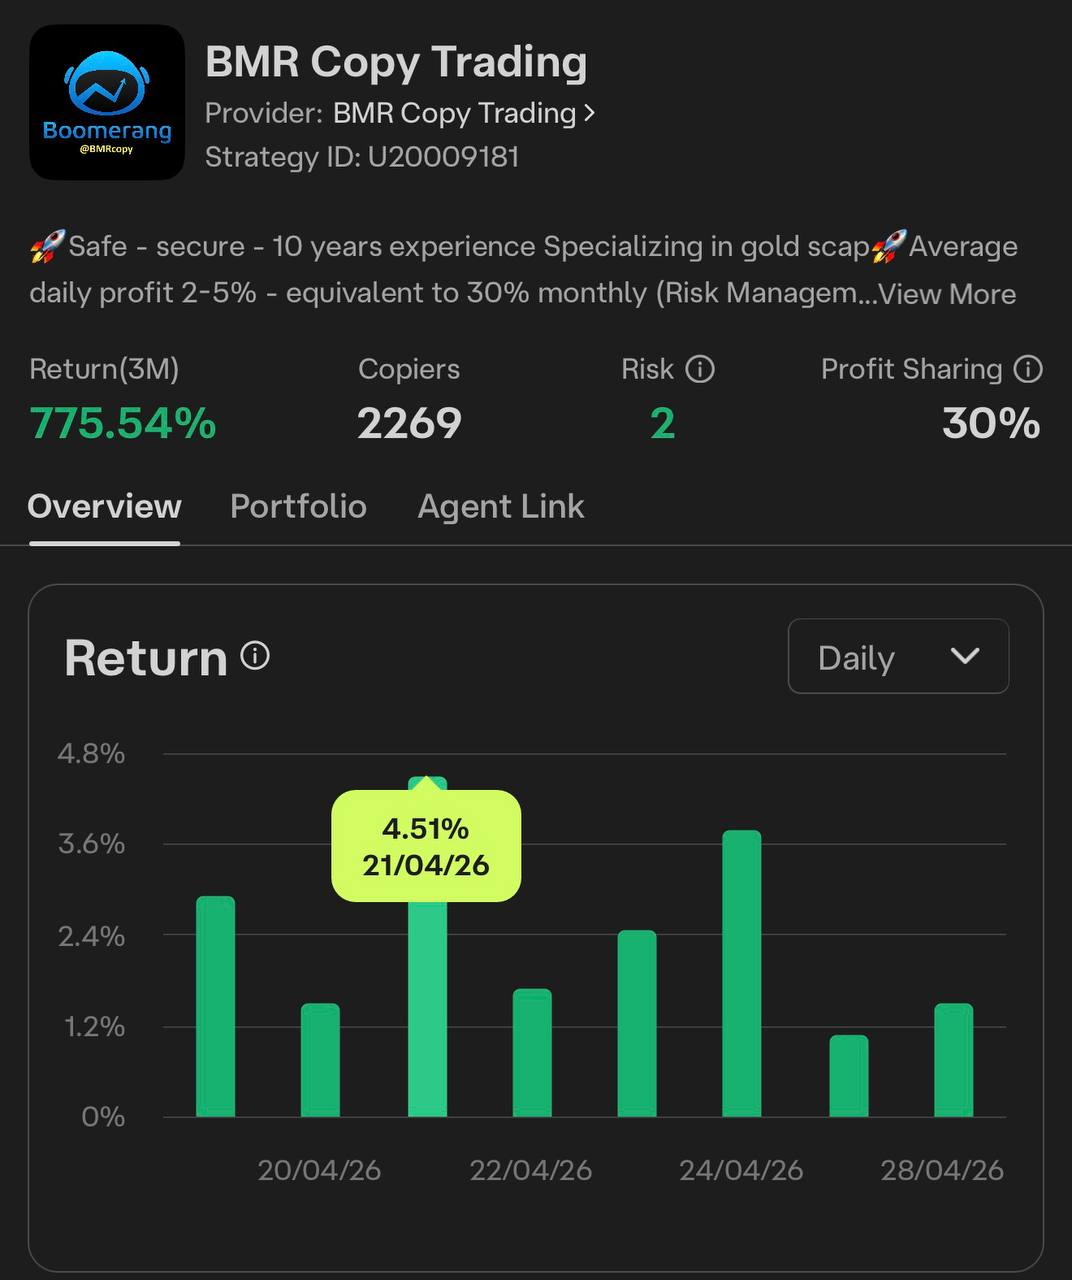
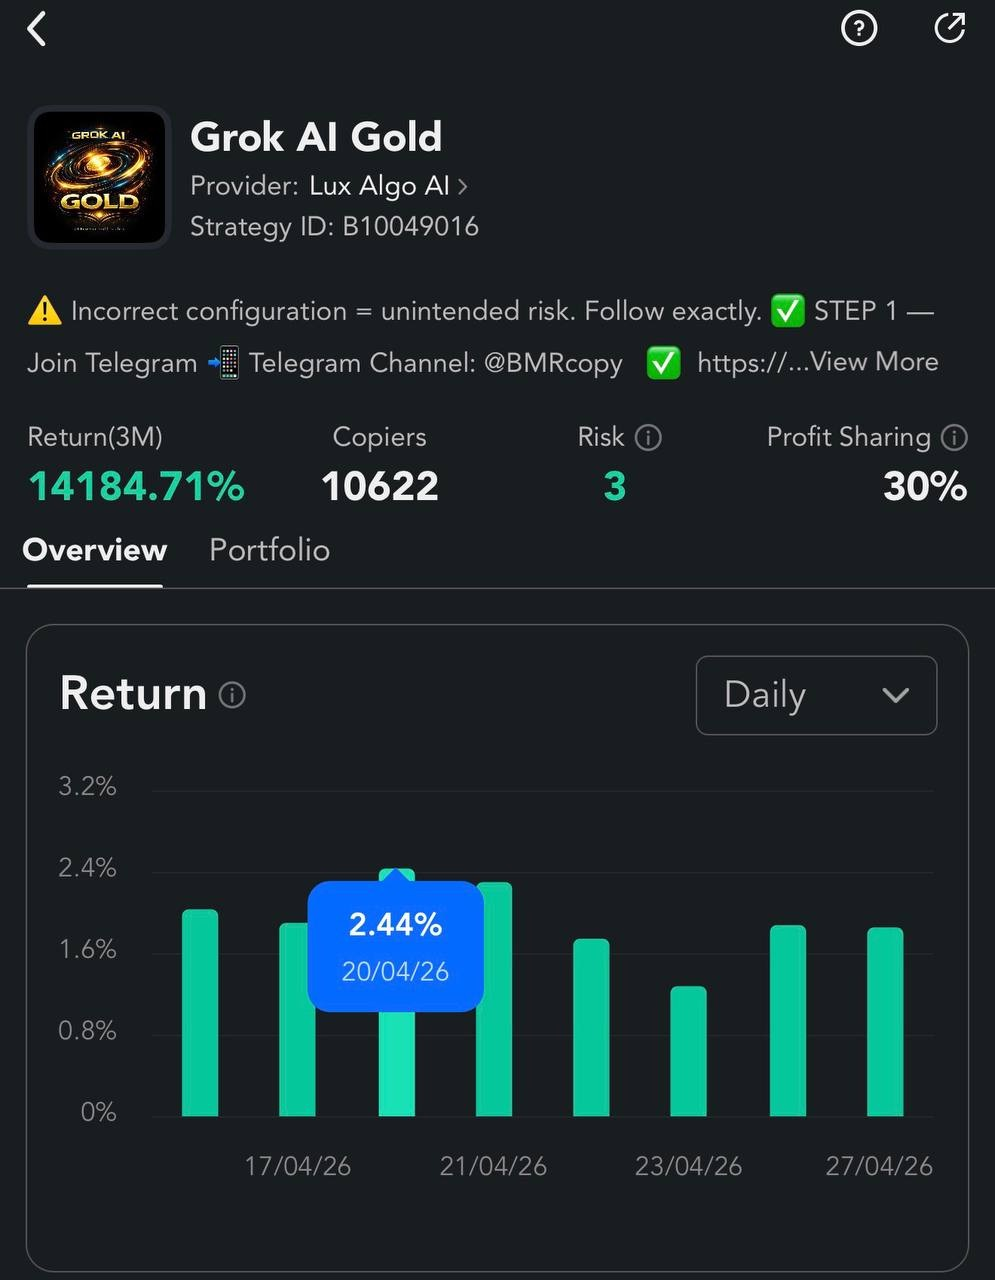
feat: refresh VN bot copy and product images
Welcome:
- Replace generic subtitle with positioning lines (AI Gold & BTC Copy Trading / Risk Management System / Dành cho nhà đầu tư bận rộn)

Product pages (text):
- Grok AI Gold: Top 3 -> Top 2 Most Copied; bullets -> Gold Scalping System / AI Risk Management / Real-Time Copy Trading
- BMR Copy Trading: 'Top Annual Return tren Ultima Markets'; bullets -> AI Risk Management / Giao dich tu dong / Portfolio Growth
- BMR Scalper Gold: 'High Performance Copy Trading tren Vantage'; bullets -> Gold Scalping System / AI Trade Execution / Social Copy Trading
- Numbers unchanged

VIP Package:
- Replace broker registration block with Mở khóa list (AI Gold Signals / Market Analysis / Trading Education / Community Access / Priority Support) + Điều kiện tham gia: Tài khoản từ $1,000+

Admin contact:
- Replace @user with @user across scenes and follow-up

Product images:
- Replace public/grok/{1,2,3}.jpg with latest broker portal screenshots (old archived to ../vortexbotvn-archived-20260507/public/grok-old-20260508/)

diff --git a/src/scenes/onboarding/onboarding.scene.ts b/src/scenes/onboarding/onboarding.scene.ts
@@ -37,7 +37,9 @@ export class OnboardingScene {
     ctx.session.currentStep = 'onboarding:welcome';
     const welcomeText =
       '🔥 Chào mừng đến BMR Copy Trading\n\n' +
-      'Hệ thống giao dịch chuyên nghiệp 👇';
+      '📈 AI Gold & BTC Copy Trading\n' +
+      '⚖️ Risk Management System\n' +
+      '👥 Dành cho nhà đầu tư bận rộn';
     await ctx.reply(welcomeText, welcomeKeyboard());
   }
 
@@ -50,16 +52,17 @@ export class OnboardingScene {
     ctx.session.currentStep = 'onboarding:grok_ai_gold';
 
     const text = `🤖 Grok AI Gold
-Top 3 Most Copied trên PU Prime
+
+Top 2 Most Copied trên PU Prime
 
 📊 Lợi nhuận YTD: +107,615%
-📊 Lợi nhuận 3 tháng: +14,184%
+📈 Lợi nhuận 3 tháng: +14,184%
 👥 Tổng người copy: 10,622
 ⚖️ Mức rủi ro: 3
 
-✅ Gold Scalping
-✅ Tự động hoàn toàn
-✅ Copy Trading thời gian thực`;
+✅ Gold Scalping System
+✅ AI Risk Management
+✅ Real-Time Copy Trading`;
     await this.sendPhotoWithCaption(ctx, IMAGES.grok.product1, text, grokAiGoldKeyboard());
   }
 
@@ -72,7 +75,8 @@ Top 3 Most Copied trên PU Prime
     ctx.session.currentStep = 'onboarding:bmr_copy_trading';
 
     const text = `🏆 BMR Copy Trading
-Top 1 Lợi nhuận thường niên cao nhất Ultima Markets
+
+Top Annual Return trên Ultima Markets
 
 📊 Lợi nhuận 1 năm: +1,596%
 👥 Tổng người copy: 2,269
@@ -80,9 +84,9 @@ Top 1 Lợi nhuận thường niên cao nhất Ultima Markets
 ⚖️ Mức rủi ro: 2
 💰 Vốn đề xuất: $1,000+
 
-✅ Đa chiến lược
+✅ AI Risk Management
 ✅ Giao dịch tự động
-✅ Tăng trưởng dài hạn`;
+✅ Portfolio Growth`;
     await this.sendPhotoWithCaption(ctx, IMAGES.grok.product2, text, bmrCopyTradingKeyboard());
   }
 
@@ -95,14 +99,15 @@ Top 1 Lợi nhuận thường niên cao nhất Ultima Markets
     ctx.session.currentStep = 'onboarding:bmr_scalper_gold';
 
     const text = `🚀 BMR Scalper Gold
-Hiệu suất Copy Trading mạnh trên Vantage
+
+High Performance Copy Trading trên Vantage
 
 📊 Lợi nhuận 3 tháng: +6,288.96%
 👥 Tổng người copy: 1,401
 📌 Người copy hiện tại: 95
 
-✅ Gold Scalping
-✅ Tần suất cao
+✅ Gold Scalping System
+✅ AI Trade Execution
 ✅ Social Copy Trading`;
     await this.sendPhotoWithCaption(ctx, IMAGES.grok.product3, text, bmrScalperGoldKeyboard());
   }
@@ -116,21 +121,15 @@ Hiệu suất Copy Trading mạnh trên Vantage
 
     const text = `👑 BMR VIP Package
 
-Tham gia VIP:
+Mở khóa:
+✅ AI Gold Signals
+✅ Market Analysis
+✅ Trading Education
+✅ Community Access
+✅ Priority Support
 
-Đăng ký:
-PU Prime
-Ultima Markets
-Vantage
-
-Nạp tối thiểu: $1,000
-
-Mở khoá:
-✅ Tín hiệu hàng ngày
-✅ Forex Course
-✅ SMC Course
-✅ Cộng đồng
-✅ Hỗ trợ Copy Trading`;
+📌 Điều kiện tham gia:
+Tài khoản từ $1,000+`;
     await this.sendPhotoWithCaption(ctx, IMAGES.grok.vip, text, vipPackageKeyboard());
   }
 
@@ -172,14 +171,14 @@ Mở khoá:
   async onSupport(ctx: BotContext) {
     await ctx.answerCbQuery();
     await this.adminService.notifyAdmin(ctx.from!.id, ctx.from?.username, ctx.from?.first_name);
-    await ctx.reply('Cảm ơn! Admin đã được thông báo. Em sẽ liên hệ lại sớm.\n\n👤 Liên hệ: @KenMasterTrade');
+    await ctx.reply('Cảm ơn! Admin đã được thông báo. Em sẽ liên hệ lại sớm.\n\n👤 Liên hệ: @FinBMR');
   }
 
   @Action(CALLBACKS.contactAdmin)
   async onContactAdmin(ctx: BotContext) {
     await ctx.answerCbQuery();
     await this.adminService.notifyAdmin(ctx.from!.id, ctx.from?.username, ctx.from?.first_name);
-    await ctx.reply('Cảm ơn! Admin đã được thông báo. Em sẽ liên hệ lại sớm.\n\n👤 Liên hệ: @KenMasterTrade');
+    await ctx.reply('Cảm ơn! Admin đã được thông báo. Em sẽ liên hệ lại sớm.\n\n👤 Liên hệ: @FinBMR');
   }
 
   // ── Text handler ──

diff --git a/src/scenes/setup/setup.scene.ts b/src/scenes/setup/setup.scene.ts
@@ -278,21 +278,21 @@ Gói VIP`;
   async onUnlockGrok(ctx: BotContext) {
     await ctx.answerCbQuery();
     await this.markDone(ctx);
-    await ctx.reply('🤖 Grok AI Gold đã kích hoạt!\n\nTheo dõi kết quả: https://t.me/GrokAIGold\nHỗ trợ: @KenMasterTrade');
+    await ctx.reply('🤖 Grok AI Gold đã kích hoạt!\n\nTheo dõi kết quả: https://t.me/GrokAIGold\nHỗ trợ: @FinBMR');
   }
 
   @Action(CALLBACKS.unlockBmrCopyTrading)
   async onUnlockBmrCopy(ctx: BotContext) {
     await ctx.answerCbQuery();
     await this.markDone(ctx);
-    await ctx.reply('🏆 BMR Copy Trading đã kích hoạt!\n\nTheo dõi kết quả: https://t.me/BMRCopyTrade\nHỗ trợ: @KenMasterTrade');
+    await ctx.reply('🏆 BMR Copy Trading đã kích hoạt!\n\nTheo dõi kết quả: https://t.me/BMRCopyTrade\nHỗ trợ: @FinBMR');
   }
 
   @Action(CALLBACKS.unlockBmrScalperGold)
   async onUnlockBmrScalper(ctx: BotContext) {
     await ctx.answerCbQuery();
     await this.markDone(ctx);
-    await ctx.reply(`🚀 BMR Scalper Gold đã kích hoạt!\n\nTheo dõi kết quả: ${CHANNEL_URL}\nHỗ trợ: @KenMasterTrade`);
+    await ctx.reply(`🚀 BMR Scalper Gold đã kích hoạt!\n\nTheo dõi kết quả: ${CHANNEL_URL}\nHỗ trợ: @FinBMR`);
   }
 
   @Action(CALLBACKS.unlockVipPackage)
@@ -302,7 +302,7 @@ Gói VIP`;
       where: { id: BigInt(ctx.from!.id) },
       data: { status: 'done', isVip: true, tier: 'vip', lastStep: 'unlock_vip' },
     }).catch((e) => this.logger.warn(`User update failed: ${e.message}`));
-    await ctx.reply(`👑 Gói VIP đã kích hoạt!\n\nTheo dõi kết quả: ${CHANNEL_URL}\nHỗ trợ: @KenMasterTrade`);
+    await ctx.reply(`👑 Gói VIP đã kích hoạt!\n\nTheo dõi kết quả: ${CHANNEL_URL}\nHỗ trợ: @FinBMR`);
   }
 
   // ── Contact Admin ──
@@ -310,7 +310,7 @@ Gói VIP`;
   async onContactAdmin(ctx: BotContext) {
     await ctx.answerCbQuery();
     await this.adminService.notifyAdmin(ctx.from!.id, ctx.from?.username, ctx.from?.first_name);
-    await ctx.reply('Cảm ơn! Admin đã được thông báo. Em sẽ liên hệ lại sớm.\n\n👤 Liên hệ: @KenMasterTrade');
+    await ctx.reply('Cảm ơn! Admin đã được thông báo. Em sẽ liên hệ lại sớm.\n\n👤 Liên hệ: @FinBMR');
   }
 
   // ── Register callbacks from VIP flow (scene-level) ──

diff --git a/src/follow-up/follow-up.service.ts b/src/follow-up/follow-up.service.ts
@@ -17,7 +17,7 @@ const BMR_COPY_CHANNEL = 'https://t.me/BMRCopyTrade';
 const BMR_SCALPER_CHANNEL = 'https://t.me/BMRGoldScalper';
 
 // VIP contact (VN admin)
-const KEN_VN = 'https://t.me/KenMasterTrade';
+const KEN_VN = 'https://t.me/FinBMR';
 
 const CHECK_INTERVAL_MS = 5 * 60 * 1000;
 